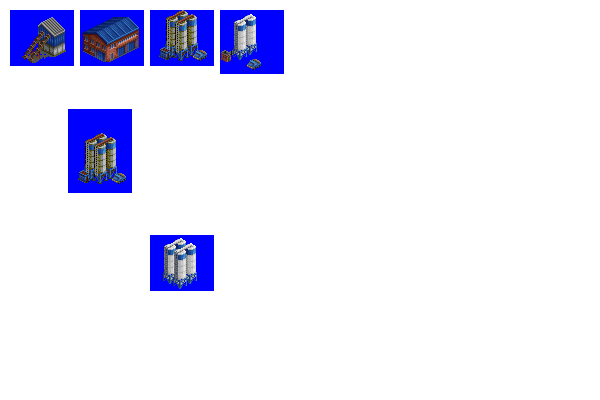
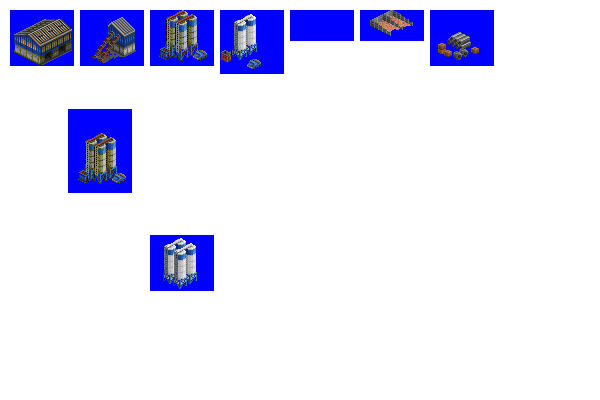
Change: WIP on Concrete Plant sprites

Changed region(s): [[0.48, 0.0, 0.84, 0.18], [0.0, 0.03, 0.24, 0.18]]

diff --git a/src/industries/concrete_plant.py b/src/industries/concrete_plant.py
@@ -36,89 +36,109 @@ industry.add_tile(
 )
 
 spriteset_ground = industry.add_spriteset(
-    type="asphalt",
+    type="gravel",
 )
 spriteset_ground_overlay = industry.add_spriteset(type="empty")
-stacks_1 = industry.add_spriteset(
+shed_1 = industry.add_spriteset(
     sprites=[(10, 10, 64, 56, -31, -26)],
 )
-shed = industry.add_spriteset(
+conveyor_1 = industry.add_spriteset(
     sprites=[(80, 10, 64, 56, -31, -26)],
 )
-silo = industry.add_spriteset(
-    sprites=[(220, 10, 64, 64, -31, -34)],
-)
-stacks_2 = industry.add_spriteset(
+silo_1 = industry.add_spriteset(
     sprites=[(150, 10, 64, 56, -31, -31)],
 )
+silo_2 = industry.add_spriteset(
+    sprites=[(220, 10, 64, 64, -31, -34)],
+)
+aggregates = industry.add_spriteset(
+    sprites=[(360, 10, 64, 31, -31, 0)],
+)
+blocks_1 = industry.add_spriteset(
+    sprites=[(430, 10, 64, 56, -31, -31)],
+)
 industry.add_spritelayout(
-    id="concrete_plant_spritelayout_1",
+    id="concrete_plant_spritelayout_shed_1",
     tile="concrete_plant_tile_1",
     ground_sprite=spriteset_ground,
     ground_overlay=spriteset_ground_overlay,
-    building_sprites=[stacks_1],
+    building_sprites=[shed_1],
     fences=["nw", "ne", "se", "sw"],
 )
 industry.add_spritelayout(
-    id="concrete_plant_spritelayout_2",
+    id="concrete_plant_spritelayout_conveyor_1",
     tile="concrete_plant_tile_1",
     ground_sprite=spriteset_ground,
     ground_overlay=spriteset_ground_overlay,
-    building_sprites=[shed],
+    building_sprites=[conveyor_1],
 )
 industry.add_spritelayout(
-    id="concrete_plant_spritelayout_3",
+    id="concrete_plant_spritelayout_silo_1",
     tile="concrete_plant_tile_1",
     ground_sprite=spriteset_ground,
     ground_overlay=spriteset_ground_overlay,
-    building_sprites=[silo],
+    building_sprites=[silo_1],
 )
 industry.add_spritelayout(
-    id="concrete_plant_spritelayout_4",
+    id="concrete_plant_spritelayout_silo_2",
     tile="concrete_plant_tile_1",
     ground_sprite=spriteset_ground,
     ground_overlay=spriteset_ground_overlay,
-    building_sprites=[stacks_2],
+    building_sprites=[silo_2],
+)
+industry.add_spritelayout(
+    id="concrete_plant_spritelayout_aggregates",
+    tile="concrete_plant_tile_1",
+    ground_sprite=spriteset_ground,
+    ground_overlay=spriteset_ground_overlay,
+    building_sprites=[aggregates],
+)
+industry.add_spritelayout(
+    id="concrete_plant_spritelayout_blocks_1",
+    tile="concrete_plant_tile_1",
+    ground_sprite=spriteset_ground,
+    ground_overlay=spriteset_ground_overlay,
+    building_sprites=[blocks_1],
 )
 
 # relatively large IRL, and these are probably regional, not town-local
 industry.add_industry_layout(
     id="concrete_plant_industry_layout_1",
     layout=[
-        (0, 0, "concrete_plant_spritelayout_4"),
-        (0, 1, "concrete_plant_spritelayout_1"),
-        (0, 2, "concrete_plant_spritelayout_4"),
-        (1, 0, "concrete_plant_spritelayout_3"),
-        (1, 1, "concrete_plant_spritelayout_2"),
-        (1, 2, "concrete_plant_spritelayout_1"),
-        (2, 0, "concrete_plant_spritelayout_1"),
-        (2, 1, "concrete_plant_spritelayout_3"),
-        (2, 2, "concrete_plant_spritelayout_3"),
-        (3, 0, "concrete_plant_spritelayout_2"),
-        (3, 1, "concrete_plant_spritelayout_4"),
-        (3, 2, "concrete_plant_spritelayout_2"),
-        (4, 0, "concrete_plant_spritelayout_2"),
-        (4, 1, "concrete_plant_spritelayout_4"),
-        (4, 2, "concrete_plant_spritelayout_2"),
+        (0, 0, "concrete_plant_spritelayout_blocks_1"),
+        (0, 1, "concrete_plant_spritelayout_silo_1"),
+        (0, 2, "concrete_plant_spritelayout_conveyor_1"),
+        (1, 0, "concrete_plant_spritelayout_shed_1"),
+        (1, 1, "concrete_plant_spritelayout_blocks_1"),
+        (1, 2, "concrete_plant_spritelayout_aggregates"),
+        (2, 0, "concrete_plant_spritelayout_silo_1"),
+        (2, 1, "concrete_plant_spritelayout_blocks_1"),
+        (2, 2, "concrete_plant_spritelayout_blocks_1"),
+        (3, 0, "concrete_plant_spritelayout_conveyor_1"),
+        (3, 1, "concrete_plant_spritelayout_blocks_1"),
+        (3, 2, "concrete_plant_spritelayout_shed_1"),
+        (4, 0, "concrete_plant_spritelayout_aggregates"),
+        (4, 1, "concrete_plant_spritelayout_blocks_1"),
+        (4, 2, "concrete_plant_spritelayout_blocks_1"),
     ],
 )
 industry.add_industry_layout(
     id="concrete_plant_industry_layout_2",
     layout=[
-        (0, 0, "concrete_plant_spritelayout_1"),
-        (0, 1, "concrete_plant_spritelayout_3"),
-        (0, 2, "concrete_plant_spritelayout_1"),
-        (0, 3, "concrete_plant_spritelayout_4"),
-        (0, 4, "concrete_plant_spritelayout_4"),
-        (1, 0, "concrete_plant_spritelayout_2"),
-        (1, 1, "concrete_plant_spritelayout_4"),
-        (1, 2, "concrete_plant_spritelayout_2"),
-        (1, 3, "concrete_plant_spritelayout_3"),
-        (1, 4, "concrete_plant_spritelayout_3"),
-        (2, 0, "concrete_plant_spritelayout_2"),
-        (2, 1, "concrete_plant_spritelayout_4"),
-        (2, 2, "concrete_plant_spritelayout_2"),
-        (2, 3, "concrete_plant_spritelayout_3"),
-        (2, 4, "concrete_plant_spritelayout_3"),
+        (0, 0, "concrete_plant_spritelayout_shed_1"),
+        (0, 1, "concrete_plant_spritelayout_silo_2"),
+        (0, 2, "concrete_plant_spritelayout_shed_1"),
+        (0, 3, "concrete_plant_spritelayout_silo_1"),
+        (0, 4, "concrete_plant_spritelayout_silo_1"),
+        (1, 0, "concrete_plant_spritelayout_conveyor_1"),
+        (1, 1, "concrete_plant_spritelayout_silo_1"),
+        (1, 2, "concrete_plant_spritelayout_conveyor_1"),
+        (1, 3, "concrete_plant_spritelayout_silo_2"),
+        (1, 4, "concrete_plant_spritelayout_silo_2"),
+        (2, 0, "concrete_plant_spritelayout_conveyor_1"),
+        (2, 1, "concrete_plant_spritelayout_silo_1"),
+        (2, 2, "concrete_plant_spritelayout_conveyor_1"),
+        (2, 3, "concrete_plant_spritelayout_silo_2"),
+        (2, 4, "concrete_plant_spritelayout_silo_2"),
     ],
 )
